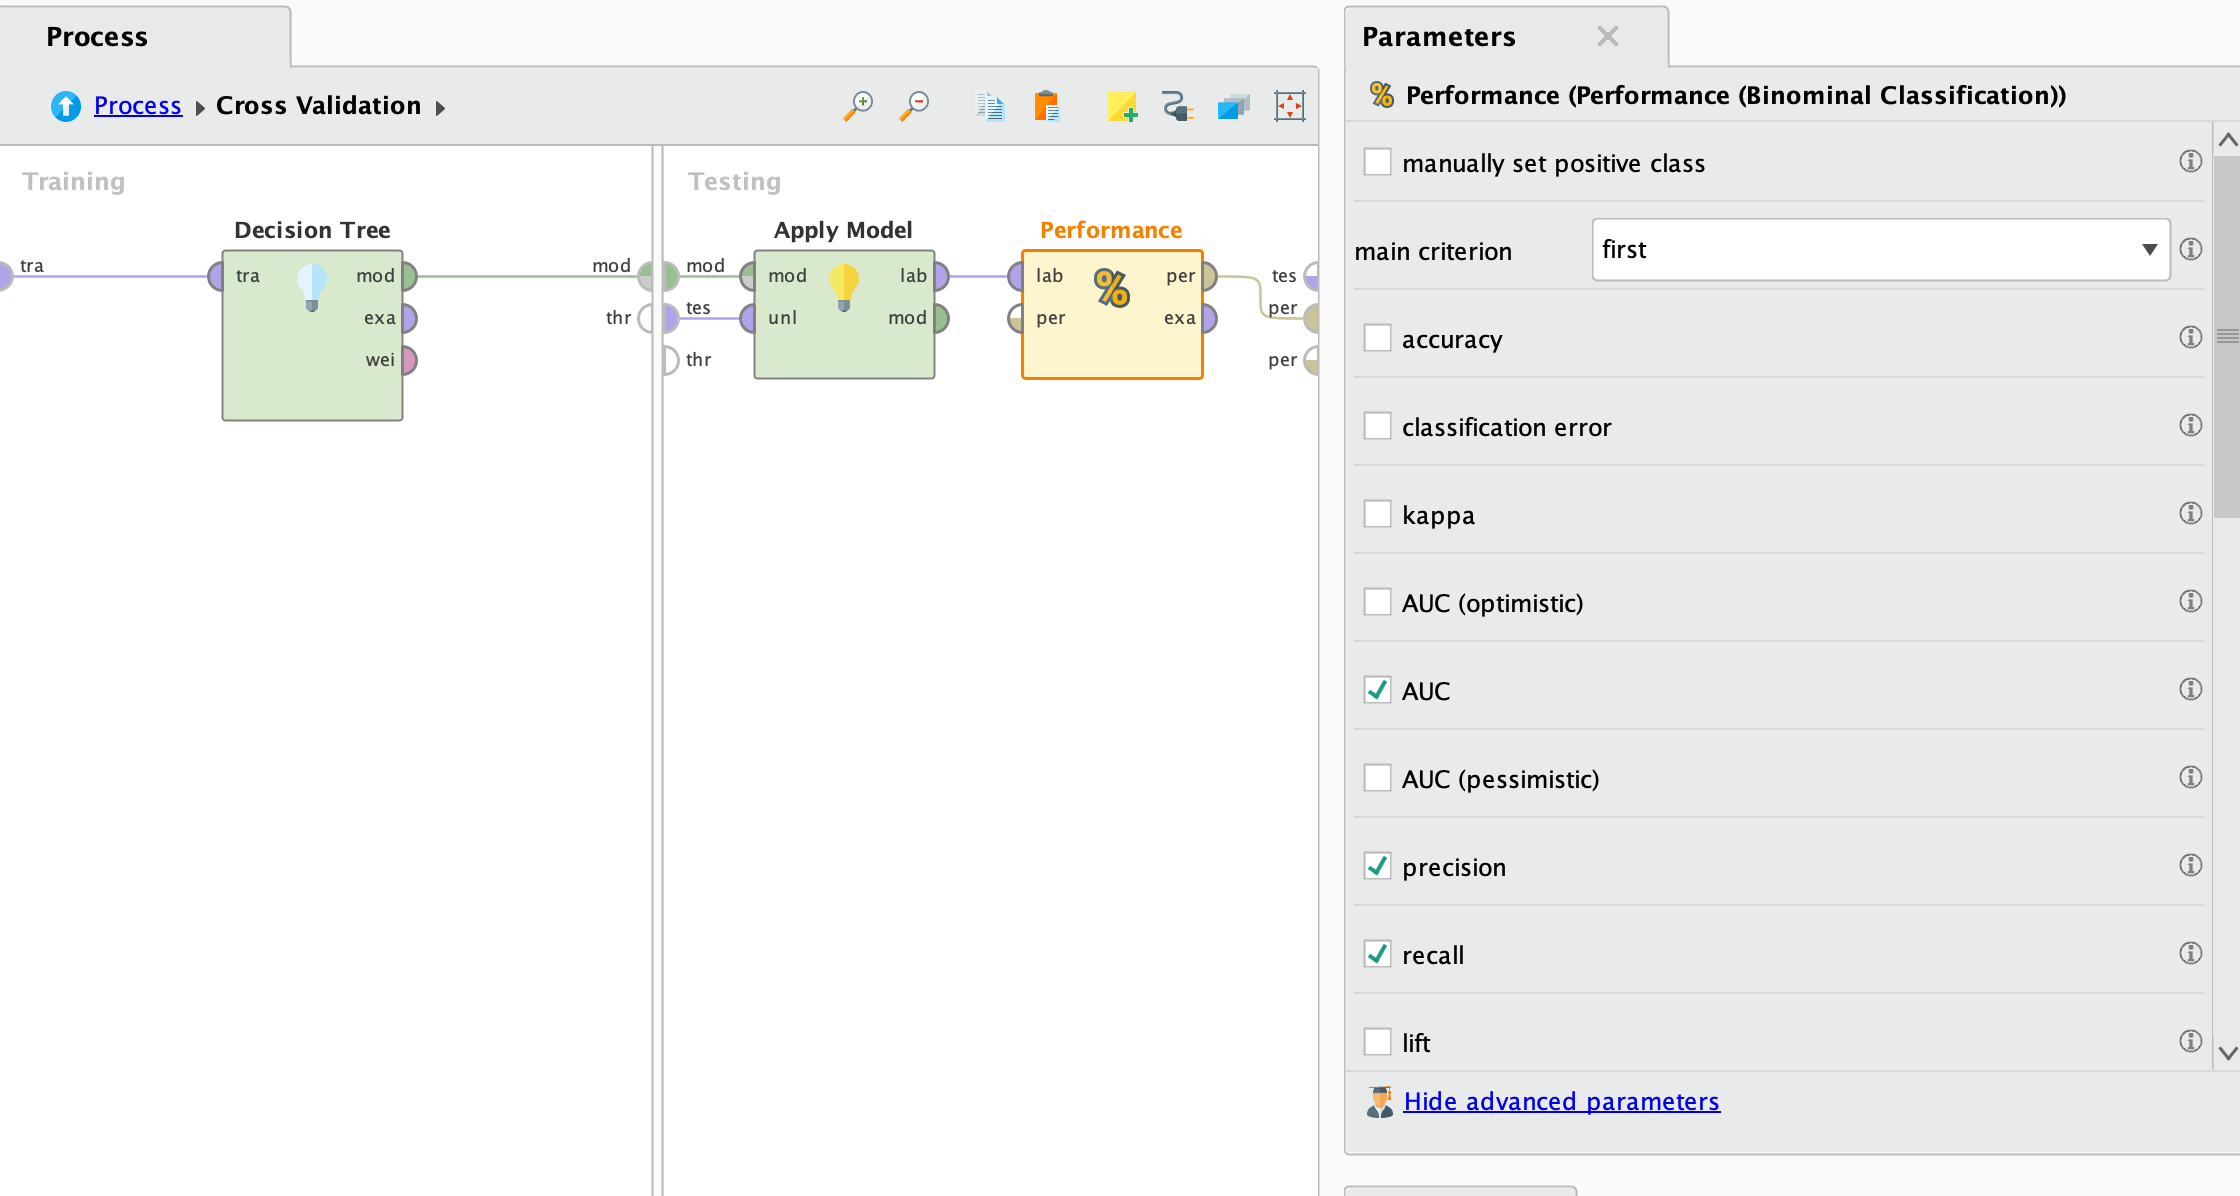
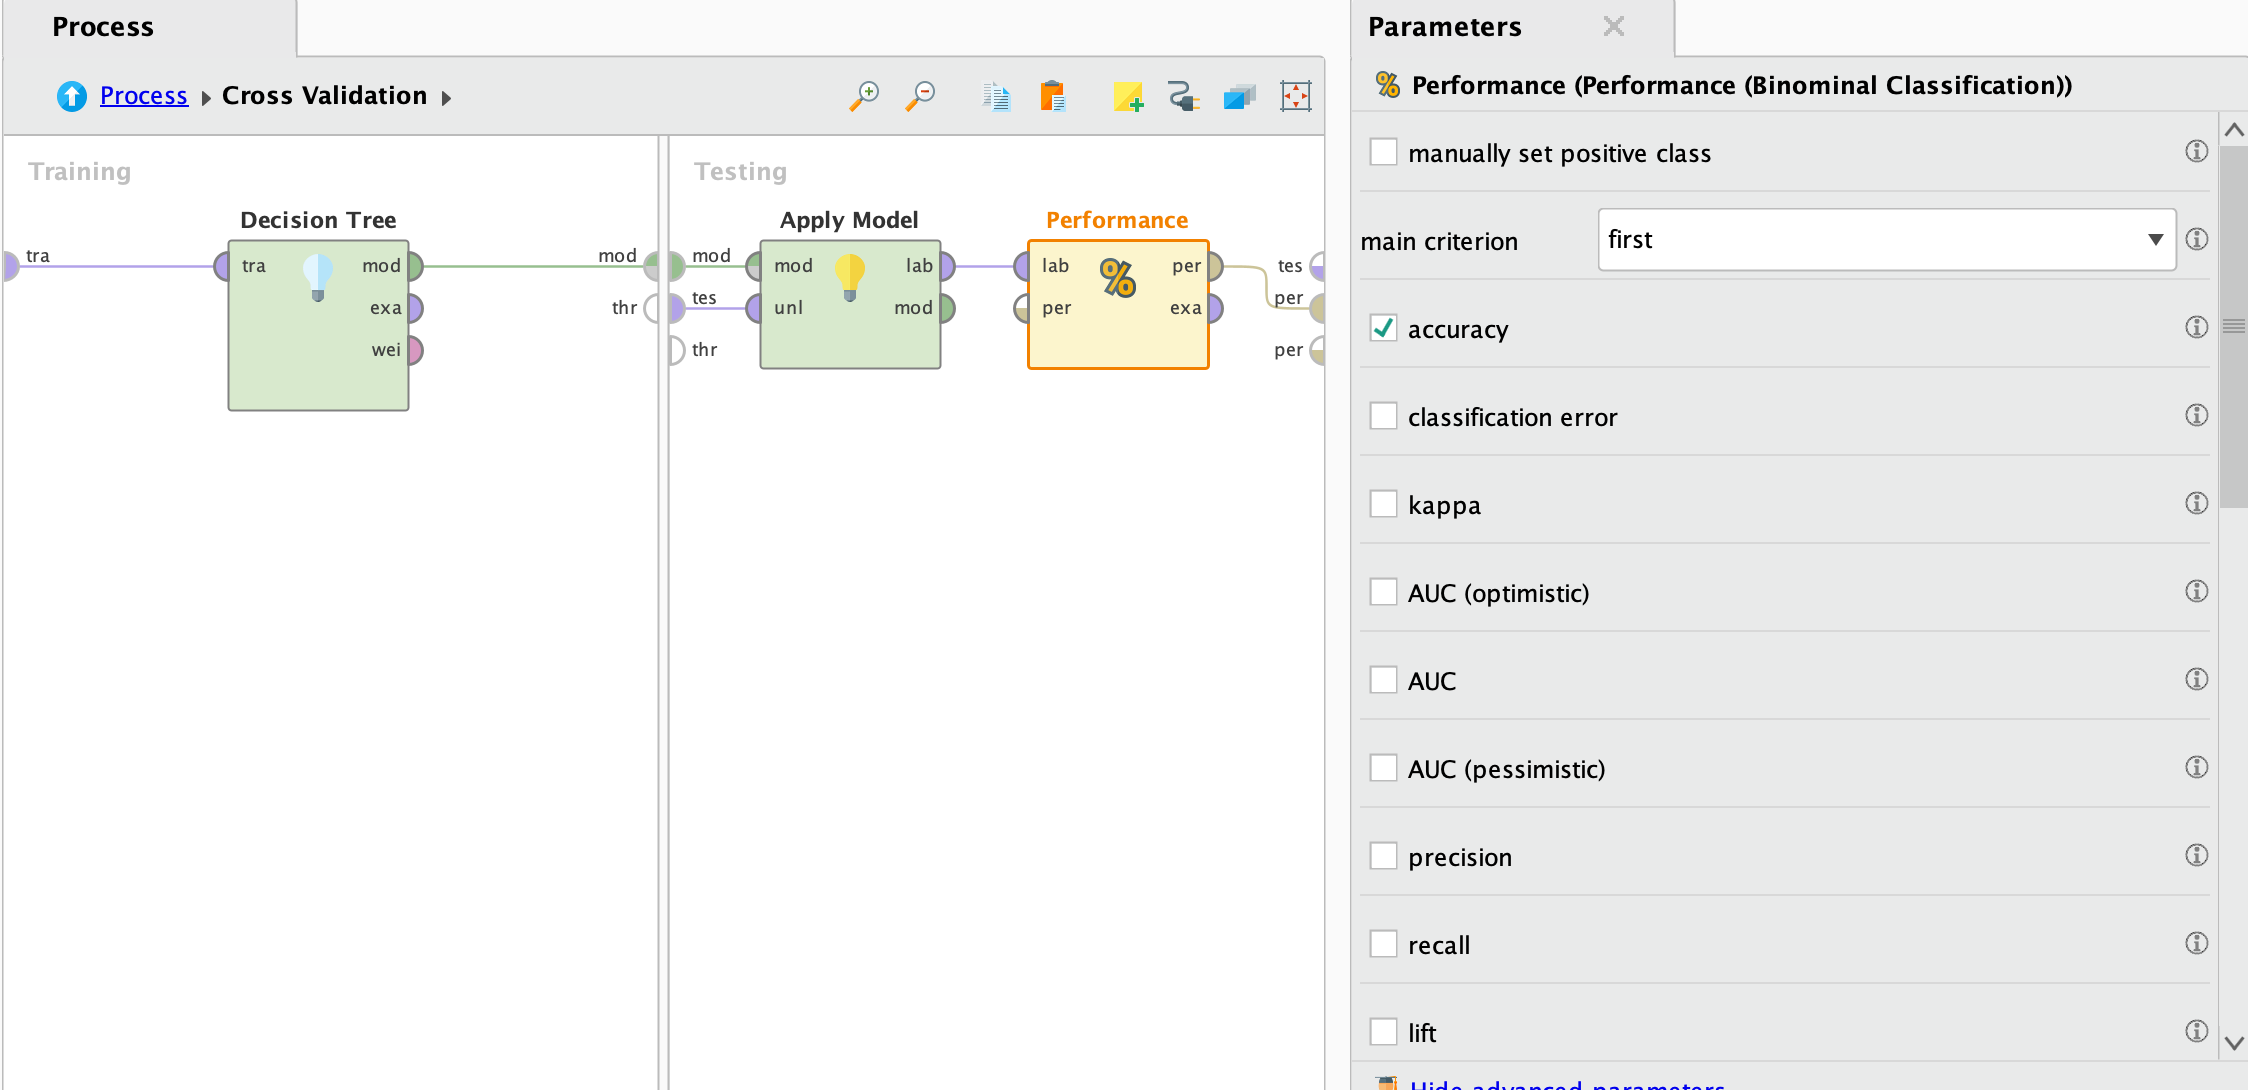
f

diff --git a/Proyecto grupal/proyectoGrupal.html b/Proyecto grupal/proyectoGrupal.html
@@ -589,7 +589,7 @@
 
         <h3>Accuracy</h3>
         <p>Proporción de predicciones correctas (tanto positivos como negativos) sobre el total de predicciones. Es útil
-            para problemas donde ambas clases tienen una proporción similar (balanceadas). En este caso, como las clases no se encuentran tan balanceadas (ya que hay menos retrasos), no activaremos esta opción.</p>
+            para problemas donde ambas clases tienen una proporción similar (balanceadas).</p>
         <p><strong>Fórmula:</strong></p>
         <p>Accuracy = (TP + TN) / (TP + TN + FP + FN)</p>
 
@@ -601,7 +601,7 @@
 
         <h3>Recall</h3>
         <p>Proporción de verdaderos positivos correctamente identificados entre todos los casos reales positivos. Es
-            útil para problemas donde los falsos negativos (FN) son críticos. Activaremos tanto "Precision" y "Recall" ya que las clases están desbalanceadas (por ejemplo, si los vuelos retrasados son pocos comparados con los no retrasados). Estas métricas nos ayudarán a entender si el modelo está prediciendo correctamente la clase minoritaria.</p>
+            útil para problemas donde los falsos negativos (FN) son críticos.</p>
         <p><strong>Fórmula:</strong></p>
         <p>Recall = TP / (TP + FN)</p>
 
@@ -615,7 +615,6 @@
         <p>Mide la capacidad del modelo para distinguir entre clases. La curva ROC compara la tasa de verdaderos
             positivos (TPR) frente a la tasa de falsos positivos (FPR). Es útil para comparar modelos sin depender de un
             umbral fijo.</p>
-        <p>Activaremos "Auc" para analizar el rendimiento general del modelo en términos de la capacidad para distinguir entre clases (independientemente del umbral). Es una métrica robusta y útil para comparar modelos.</p>
 
         <h3>Logarithmic Loss (Log Loss)</h3>
         <p>Penaliza predicciones con baja confianza en la clase correcta. Valores más bajos indican un mejor modelo. Es
@@ -631,10 +630,126 @@
         </ul>
         <p>Es útil para analizar los errores del modelo. Nos permitirá ver los TP, TN, FP, y FN. Esencial para entender dónde el modelo se equivoca y qué tan bien clasifica cada clase.</p>
 
-        <p>De esta manera configuraremos los parámetros para este caso.</p>
+        <p>En este caso, activaremos "Accuracy" y el resto de parametros los dejaremos por defecto, para entender cual es el resultado de aprendizaje del algorítmo.</p>
         <img src="../assets/img39.png" alt="Investigación 2" class="detail-image">
 
+        <h2>Resultado del modelo</h2>
+        <img src="../assets/img40.png" alt="Investigación 2" class="detail-image">
+        <p>En este caso, conseguimos un 81% de precisón para este algorítmo.</p>
+        
+        <img src="../assets/img41.png" alt="Investigación 2" class="detail-image">
+        <p>También podemos ver los atributos más significativos para este modelo.</p>
 
+        <h2>Análisis de las divisiones del árbol</h2>
+        <h3>Raíz del árbol (TMAX)</h3>
+        <p>La variable TMAX se utiliza como el nodo raíz, lo que indica que esta característica tiene el mayor poder de discriminación para dividir los datos inicialmente.</p>
+
+        <h3>¿Tiene sentido que la temperatura máxima sea un factor clave en los retrasos de vuelos?</h3>
+        <p>En este contexto, si tiene sentido que la temperatura máxima sea clave para saber si un vuelo se puede retrasar o no, ya que las temperaturas pueden determinar el clima o problemas que puede tener la operativa que necesita una aerolínea.</p>
+
+        <h3>Divisiones intermedias (DEP_AIRPORT_HIST y AIRLINE_AIRPORT_FLIGHTS_MONTH)</h3>
+        <p>DEP_AIRPORT_HIST: Indica el desempeño histórico del aeropuerto. Tiene sentido que aeropuertos con historial de retrasos influyan en la predicción.</p>
+        <p>AIRLINE_AIRPORT_FLIGHTS_MONTH: Combina el número de vuelos de la aerolínea y el aeropuerto. Podría estar relacionado con la congestión y su impacto en los retrasos.</p>
+
+        <p>Si bien es un árbol demasiado simple para este caso, el algorítmo "Decision Tree" nos permite ver un árbol base para esta clasificación.</p>
+
+
+        <h2>Random Forest</h2>
+        <p>Utilizaremos este algoritmo para compararlo con Decision Tree y chequear su rendimiento.</p>
+        
+        <h2>Parámetros</h2>
+        <h3>Number of Trees</h3>
+        <p>Número de árboles de decisión que se construirán en el bosque. Cuantos más árboles, más robusto será el modelo, pero el tiempo de cálculo aumenta.</p>
+        <p>Iremos modificando el valor para comparar los diferentes resultados, empezaremos con un valor de 50</p>
+
+        <h3>Criterion</h3>
+        <p>La métrica que se usa para decidir cómo dividir los nodos de cada árbol. Es el mísmo parámetro que en Decision Tree, en este caso también utilizaremos "gain_ratio".</p>
+
+        <h3>Maximal Depth</h3>
+        <p>La profundidad máxima permitida para cada árbol. Limitar la profundidad puede evitar el sobreajuste. Comenzaremos con un valor de 10 y lo iremos modificando.</p>
+       
+        <h3>Apply Pruning</h3>
+        <p>Permite eliminar ramas del árbol que no aportan información relevante. Reduce la complejidad del modelo. Por el momento no lo activaremos ya que no es necesario activarlo para el Random Forest, ya que el modelo en sí es robusto al ruido por la combinación de múltiples árboles.</p>
+        
+        <h3>Apply Prepruning</h3>
+        <p>Controla el crecimiento de los árboles al detener divisiones que no cumplen criterios específicos.</p>
+        <p>No lo activaremos por el momento. Solo si tenemos problemas de memoria o tiempos de entrenamiento excesivos. Random Forest es menos propenso al sobreajuste, por lo que prepruning no es esencial.</p>
+
+        <h3>Random Splits</h3>
+        <p>Si está activado, selecciona divisiones aleatorias en lugar de basarse estrictamente en el criterio seleccionado.</p>
+        <p>No lo activaremos ya que afecta la calidad de divisiones de los árboles.</p>
+
+        <h3>Guess Subset Ratio</h3>
+        <p>Activa la selección automática de un subconjunto de atributos para cada árbol, lo que es esencial en Random Forest para aumentar la diversidad de los árboles.</p>
+
+        <h3>Voting Strategy</h3>
+        <p>Define cómo se combinan las predicciones de todos los árboles para generar el resultado final.</p>
+        <ul class="detail-description">
+            <li><strong>Confidence Vote:</strong> Combina las predicciones considerando la confianza de cada árbol.</li>
+            <li><strong>Majority Vote:</strong> Selecciona la clase más votada.</li>
+        </ul>
+        
+        <p>En este caso elegimos "Majority Vote" para obtener la clase mejor votada.</p>
+
+        <h3>Use Local Random Seed</h3>
+        <p>Como mencionamos anteriormente, nos permite reproducir los mismos resultados al fijar una semilla. Activamos esta opción.</p>
+        
+        <h3>Enable Parallel Execution</h3>
+        <p>Permite entrenar múltiples árboles en paralelo, aprovechando procesadores multinúcleo. También lo dejaremos activado para mejorar los tiempos de entrenamiento.</p>
+        <p>Configuraciones iniciales:</p>
+        <img src="../assets/img42.png" alt="Investigación 2" class="detail-image">
+        <p>Los demás parámetros de los otros operadores los dejaremos configurados de igual manera que se utilizaron para el "Decision Tree".</p>
+
+        <h2>Resultado</h2>
+        <p>Por un lado, tenemos el resultado de los distintos arboles que generó el Random Forest</p>
+        <img src="../assets/img43.png" alt="Investigación 2" class="detail-image">
+        <p>Por otro lado, tenemos el resultado de la presición del algorítmo.</p>
+        <img src="../assets/img44.png" alt="Investigación 2" class="detail-image">
+
+        <p>En este caso, podemos ver como el resultado del Decision Tree y Random Forest, es muy similar.</p>
+
+        <h2>¿Cómo mejoramos la precisión?</h2>
+
+        <p>Debemos cambiar los parametros de los operadores para ir probando y obtener el mejor resultado.</p>
+        <p>De igual manera, decidimos utilizar un operador que optimiza los parámetros para conseguir la mejor opción posible.</p>
+
+        <h2>Optimize Parameters(Grind)</h2>
+        <p>El operador Optimize Parameters (Grid) en RapidMiner permite encontrar la combinación óptima de parámetros para un modelo, probando sistemáticamente todas las combinaciones posibles dentro de los rangos definidos</p>
+
+        <h3>Parámetros</h3>
+        
+        <h3>Error Handling</h3>
+        <p>Indica cómo debe manejarse un error durante la ejecución del proceso de optimización.</p>
+        
+        <ul class="detail-description">
+            <li><strong>Fail on error:</strong> El proceso se detendrá si ocurre un error.</li>
+            <li><strong>Ignore error:</strong> Ignora los errores y continúa con las siguientes combinaciones de parámetros.</li>
+        </ul>
+        <p>En este caso, seleccionamos "Fail on error" para que el proceso nos avise si hay algún error en alguna configuración de los parámetros.</p>
+
+        <h3>Log Performance</h3>
+        <p>Registra el rendimiento (performance) del modelo para cada combinación de parámetros probada. La mantenemos activada para ver que combinación de parámetros fue la mejor.</p>
+
+        <h3>Log All Criteria</h3>
+        <p>Guarda el valor de todas las métricas de rendimiento, no solo de la métrica principal seleccionada.</p>
+
+        <h3>Synchronize</h3>
+        <p>Asegura que la ejecución de cada combinación de parámetros se realice de forma secuencial. Este parámetro lo desactivamos.</p>
+
+        <h3>Enable Parallel Execution</h3>
+        <p>Como mencionamos anteriormente, permite que las combinaciones de parámetros se prueben en paralelo, aprovechando múltiples núcleos del procesador.</p>
+    
+        <h3>Edit Parameter Settings</h3>
+        <p>Permite configurar los parámetros del modelo que serán optimizados.</p>
+        <p>En este parámerto, lo configuramos de la siguiente manera: </p>
+        <img src="../assets/img45.png" alt="Investigación 2" class="detail-image">
+        <p>Simplemente modificamos los valores del algorítmo "Random Forest"</p>
+        <p>También, debimos reducir la cantidad de atributos del dataset, ya que era muy grande y el proceso tardaba mucho tiempo, por ende, probamos con 150 filas de atributos.</p>
+        
+        <h2>Resultado</h2>
+        <img src="../assets/img46.png" alt="Investigación 2" class="detail-image">
+        <img src="../assets/img47.png" alt="Investigación 2" class="detail-image">
+        <h2>Conclusiones</h2>
 
         <h2>Referencias</h2>
     </div>
